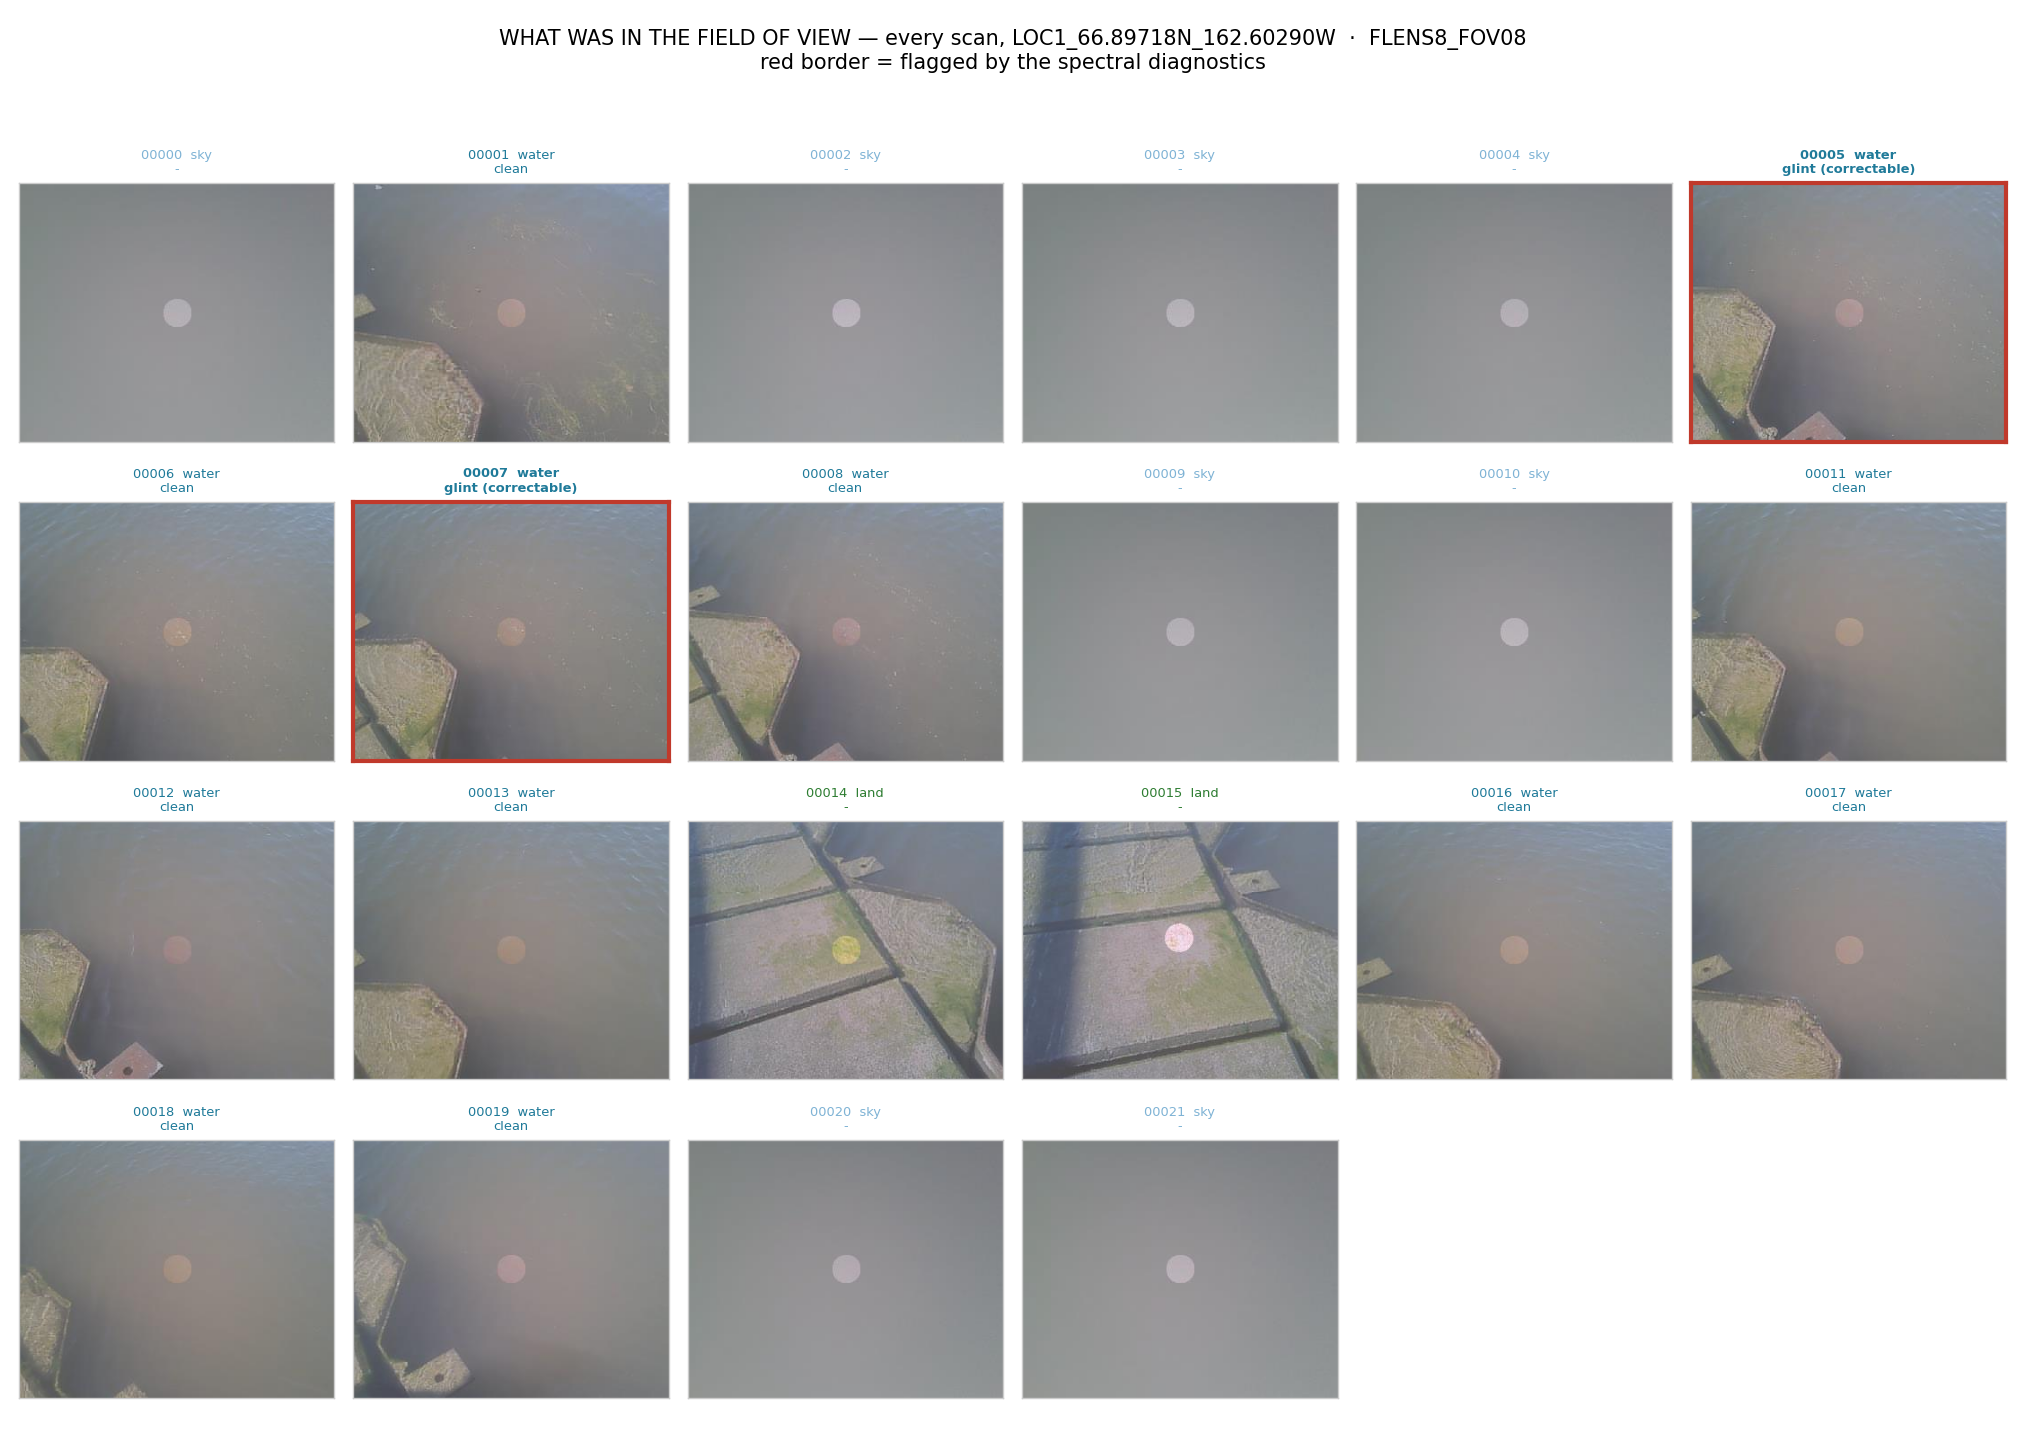
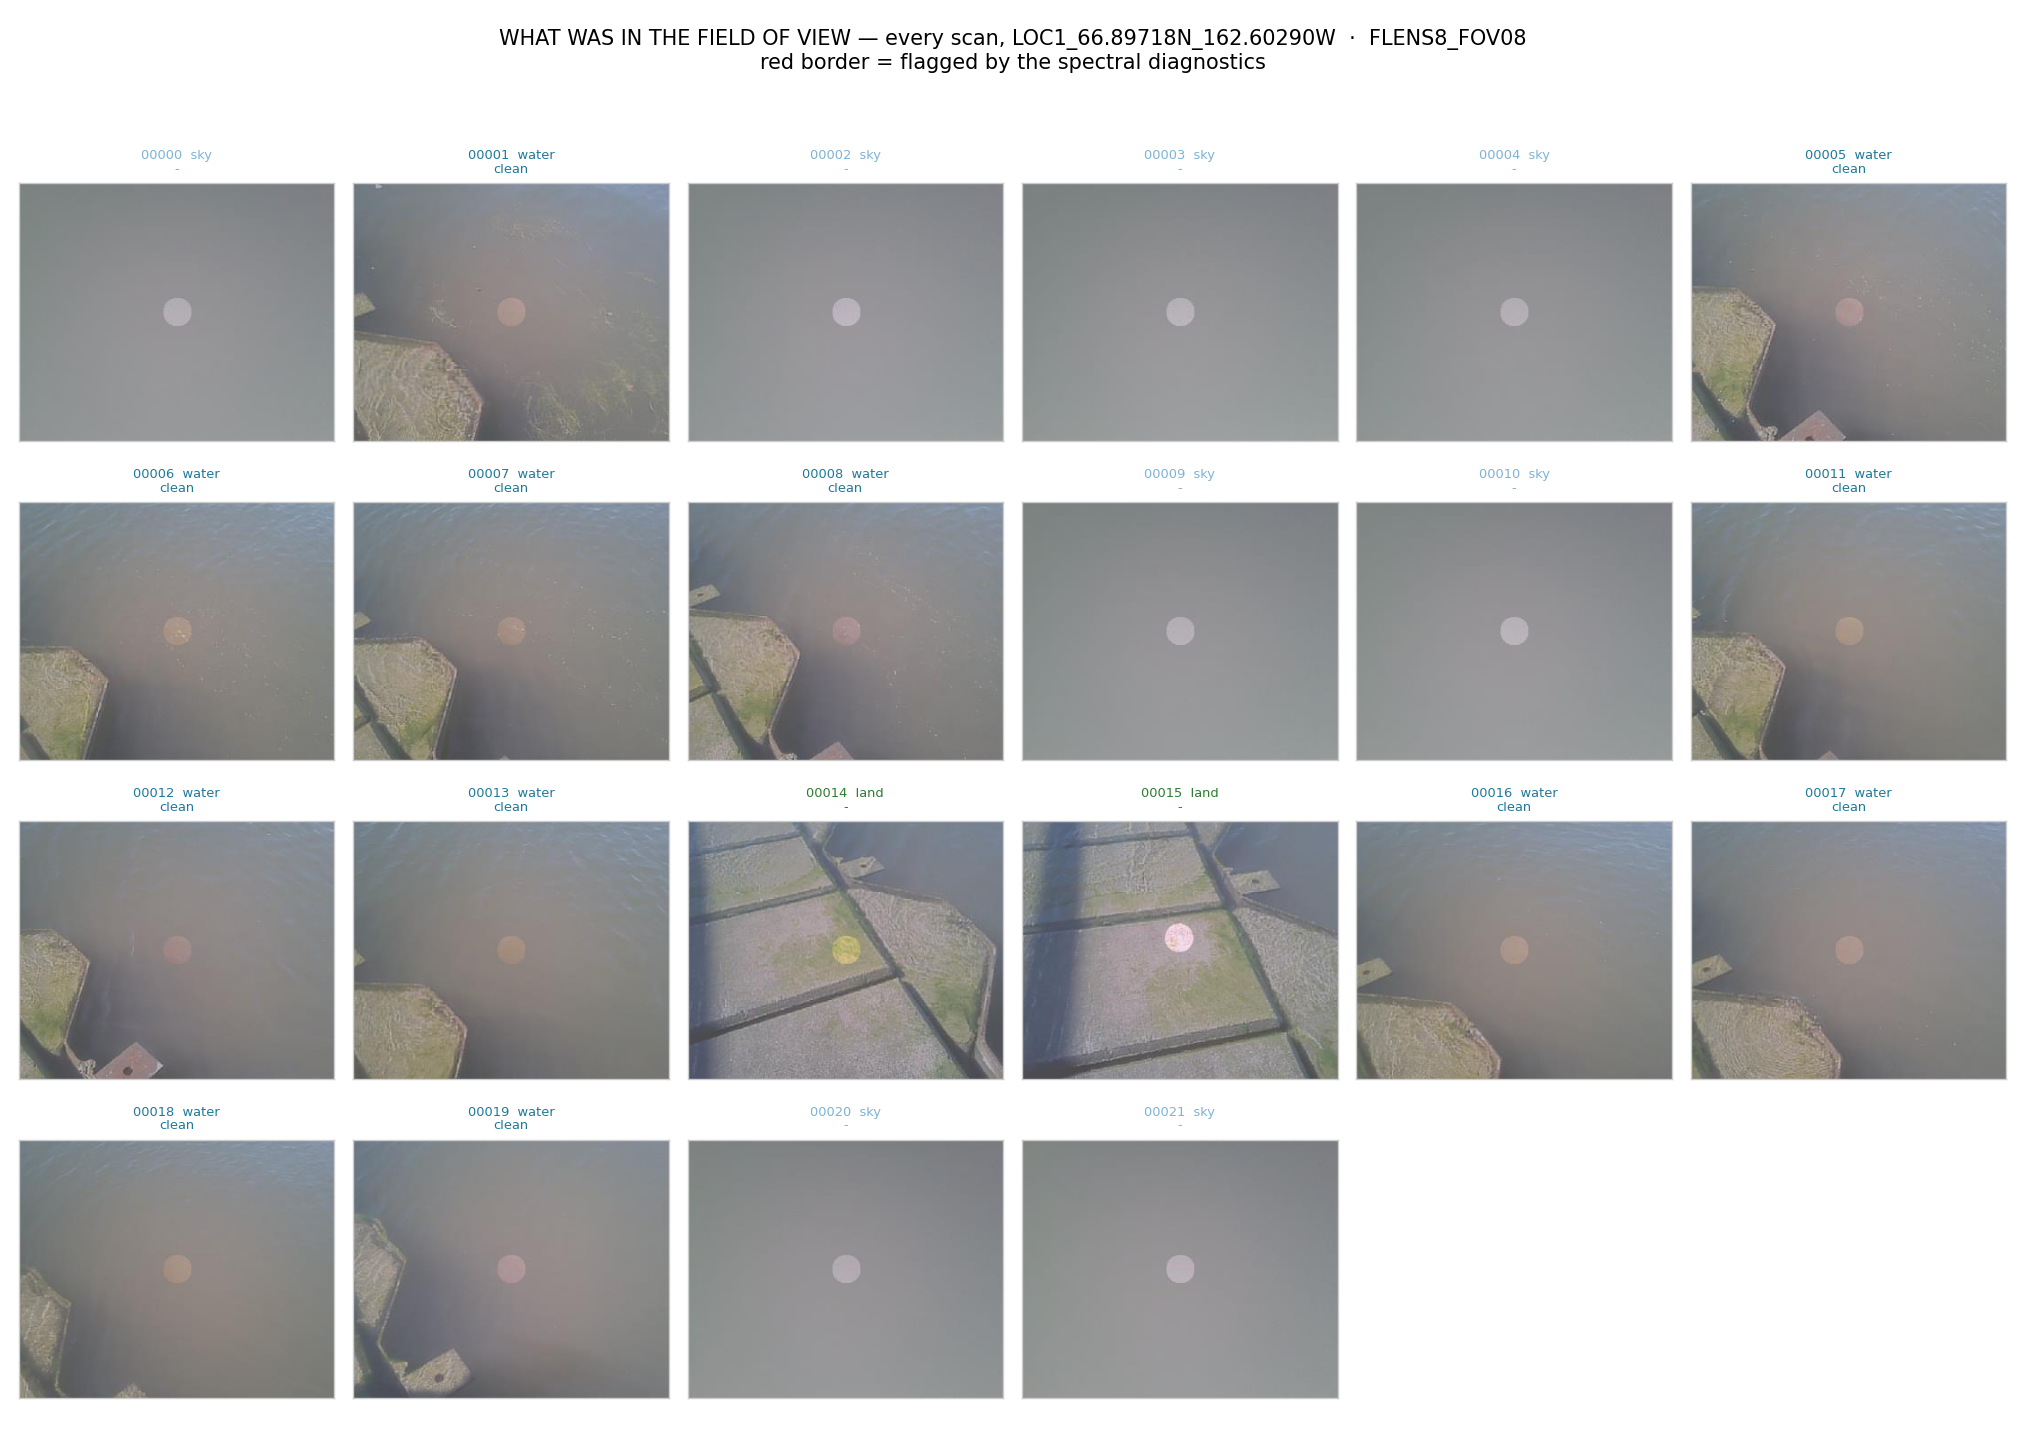
Step-5 water QC: pair sky within the panel block, as FINAL does
analyse_water_scans.build_rrs now uses match_by_angle(respect_blocks=True),
so the step-5 diagnostic table describes the same water/sky pairs as
FINAL_Rrs.csv. New test TestWaterScanQcUsesFinalSkyPairing (fails on the
old code at LOC1 00005: sky 00000 vs 00020).

Re-run on all 13 station folders: only 2026-08-16 LOC1 changed. 6 scans
move to sky 00020; 00005 and 00007 change from "glint (correctable)" to
"clean" (both marginal against the 3.15 deg cut). That reopens the
2026-08-18 nir_similarity decision for LOC1; FINAL is not changed here.
CORRECTIONS.md regenerated for all 11 R_rs stations (only LOC1 differs);
sky, R_rs555-before and verdict match water_scans/REPORT.txt for 70/70.
LOC2c (0 water) gets its SKIPPED report.

diff --git a/tests/test_field_day.py b/tests/test_field_day.py
@@ -281,6 +281,37 @@ class TestRetrievedRrs(unittest.TestCase):
                             % (st["ref"], 100 * spread))
 
 
+class TestWaterScanQcUsesFinalSkyPairing(unittest.TestCase):
+    """`analyse_water_scans.py` (step-5 QC) must pair each water scan with the SAME sky
+    scan as `analyse_location.py` (FINAL_Rrs.csv), which never crosses a panel-reference
+    block. LOC1 is the discriminating station: it has two panel blocks, and nearest-angle
+    matching across the whole location picks sky 00000/00002 (other block) for 6 of its
+    12 water scans where FINAL uses 00020, shifting R_rs(555) by up to ~1 %."""
+
+    LOC1 = REAL_BACKING_STORES[0]
+
+    def test_pairing_and_rrs_match_final(self):
+        import numpy as np
+        from analyse_location import match_by_angle
+        from analyse_water_scans import build_rrs
+        from fieldrrs.rrs import rho_at_angle, rrs_three_scan, view_zenith_from_tilt
+        from organize_by_location import survey
+        scans = survey(self.LOC1)
+        wl = np.array(scans[0]["spec"].wavelength)
+        sky = sorted([s for s in scans if s["role"] == "sky"], key=lambda s: s["n"])
+        water = sorted([s for s in scans if s["role"] == "water"], key=lambda s: s["n"])
+        self.assertEqual(len(water), 12)
+        qc = build_rrs(water, sky, wl, 0.99, "none")
+        for w, sk, _, note in match_by_angle(water, sky, respect_blocks=True):
+            self.assertEqual(note, "")
+            self.assertEqual(qc[w["n"]]["sky"], sk["n"], w["n"])
+            rho = rho_at_angle(view_zenith_from_tilt(w["spec"].tilt_y_deg))
+            ref = rrs_three_scan(wl, w["spec"].columns["rad_target"],
+                                 sk["spec"].columns["rad_target"],
+                                 w["spec"].columns["rad_ref"], 0.99, rho, "none").rrs
+            np.testing.assert_array_equal(qc[w["n"]]["rrs"], np.array(ref))
+
+
 DATA_0817 = os.path.join(ROOT, "Data_NatureSpec", "2026_Aug_17")
 
 

diff --git a/analyse_water_scans.py b/analyse_water_scans.py
@@ -55,6 +55,7 @@ import numpy as np
 
 from fieldrrs.rrs import (SIMILARITY_780_870, rho_at_angle, rrs_three_scan,
                           view_zenith_from_tilt)
+from analyse_location import match_by_angle
 from organize_by_location import survey
 
 LO, HI = 400.0, 900.0
@@ -68,12 +69,16 @@ def _ix(wl, x):
 
 
 def build_rrs(water, sky, wl, panel_r, method="none"):
-    """R_rs per water scan, each paired to the sky closest in view geometry."""
+    """R_rs per water scan, paired to its sky exactly as FINAL_Rrs.csv pairs it.
+
+    `match_by_angle(respect_blocks=True)`: nearest angle within the water scan's own
+    panel-reference block. Nearest angle across the whole location picked a different
+    sky for 6 of 12 scans at 2026-08-16 LOC1, so the QC table did not describe FINAL.
+    """
     out = {}
-    for w in water:
+    for w, sk, _, _ in match_by_angle(water, sky, respect_blocks=True):
         tv = view_zenith_from_tilt(w["spec"].tilt_y_deg)
         rho = rho_at_angle(tv)
-        sk = min(sky, key=lambda k: abs(view_zenith_from_tilt(k["spec"].tilt_y_deg) - tv))
         r = rrs_three_scan(wl, w["spec"].columns["rad_target"],
                            sk["spec"].columns["rad_target"],
                            w["spec"].columns["rad_ref"], panel_r, rho, method)
@@ -312,7 +317,7 @@ def main():
     os.makedirs(outdir, exist_ok=True)
 
     wl = np.array(scans[0]["spec"].wavelength)
-    sky = [x for x in scans if x["role"] == "sky"]
+    sky = sorted([x for x in scans if x["role"] == "sky"], key=lambda x: x["n"])
     water = sorted([x for x in scans if x["role"] == "water"], key=lambda x: x["n"])
     names = [w["n"] for w in water]
     if len(water) < 3 or not sky:

diff --git a/FIELD_DAY_WORKFLOW.md b/FIELD_DAY_WORKFLOW.md
@@ -327,10 +327,20 @@ record is `Data_NatureSpec/2026_Aug_17/PROCESSING_NOTES.md`; the reusable parts:
   R_rs before and after, the step-5 verdict and whether the scan is in FINAL. Every
   number is recomputed or parsed from the run; hand-written judgement goes in an optional
   `STATION_NOTES.md`, included verbatim. Regenerate after any re-run.
-- **Known inconsistency**: `analyse_water_scans.py` pairs each water scan with the
-  nearest-angle sky across ALL panel blocks, while `analyse_location.py` (FINAL) never
-  crosses a block. Its diagnostic table can therefore use a different sky (2026-08-16
-  LOC1: 6 of 12 scans, up to ~1 % at 555 nm; no verdict changed). Not fixed.
+- **Sky pairing in step 5 now matches FINAL (fixed 2026-10-02)**: `analyse_water_scans.py`
+  used to pair each water scan with the nearest-angle sky across ALL panel blocks, while
+  `analyse_location.py` never crosses a block. `build_rrs` now calls
+  `match_by_angle(respect_blocks=True)`, guarded by
+  `tests/test_field_day.py::TestWaterScanQcUsesFinalSkyPairing`. Re-run on all 13 station
+  folders: only 2026-08-16 LOC1 changed (00005/00008/00011/00012/00017/00019 now use sky
+  00020, R_rs(555) down 6-9e-5 sr⁻¹). **LOC1's verdicts DID change**, contrary to what this
+  bullet said before: 00005 and 00007 went from `glint (correctable)` to `clean`, leaving no
+  deviants. Both are marginal (median angle to seed 3.00° and 3.13° vs a 3.15° cut; before:
+  3.20° and 3.09° vs 3.02°). The 2026-08-18 decision to apply `--glint nir_similarity` at
+  LOC1 (`PAPER_READINESS.md` §2d0, the "LOC1's own two glint-affected scans" line in step 5
+  above) rested on that verdict and is open again; FINAL is unchanged. CORRECTIONS.md
+  regenerated for all 11 R_rs stations; its sky / R_rs555-before / verdict columns match
+  `water_scans/REPORT.txt` for all 70 scans.
 - **Step 9 is now per day**: `make_highlights.py` takes a `DAYS` entry and
   `make_slide_deck.py` a `build_<day>()` registered in `BUILDERS`. The 08-16 output is
   unchanged (slide text and image placement diffed identical).

diff --git a/Data_NatureSpec/2026_Aug_16/by_location/LOC1_66.89718N_162.60290W/FLENS8_FOV08/CORRECTIONS.md b/Data_NatureSpec/2026_Aug_16/by_location/LOC1_66.89718N_162.60290W/FLENS8_FOV08/CORRECTIONS.md
@@ -33,9 +33,9 @@ For each water scan, with its angle-matched sky scan and the panel reference sto
 | water | sky | tilt ° | Δθ ° | ρ | ρL_sky/L_t 443 | ε | R_rs555 before | R_rs555 after | R_rs865 after | step-5 verdict | in FINAL |
 |---|---|---|---|---|---|---|---|---|---|---|---|
 | 00001 | 00000 | 43.2 | 1.1 | 0.0302 | 44 % | +0.00010 | 0.00881 | 0.00870 | 0.00067 | clean | yes |
-| 00005 | 00020 | 41.6 | 4.0 | 0.0290 | 48 % | +0.00013 | 0.00706 | 0.00693 | 0.00058 | glint (correctable) | yes |
+| 00005 | 00020 | 41.6 | 4.0 | 0.0290 | 48 % | +0.00013 | 0.00706 | 0.00693 | 0.00058 | clean | yes |
 | 00006 | 00010 | 47.3 | 0.3 | 0.0344 | 49 % | +0.00024 | 0.00932 | 0.00908 | 0.00075 | clean | yes |
-| 00007 | 00009 | 46.1 | 0.4 | 0.0330 | 48 % | +0.00022 | 0.00879 | 0.00857 | 0.00075 | glint (correctable) | yes |
+| 00007 | 00009 | 46.1 | 0.4 | 0.0330 | 48 % | +0.00022 | 0.00879 | 0.00857 | 0.00075 | clean | yes |
 | 00008 | 00020 | 42.9 | 2.7 | 0.0300 | 51 % | +0.00008 | 0.00703 | 0.00695 | 0.00061 | clean | yes |
 | 00011 | 00020 | 44.9 | 0.7 | 0.0317 | 48 % | -0.00013 | 0.00858 | 0.00870 | 0.00074 | clean | yes |
 | 00012 | 00020 | 42.0 | 3.6 | 0.0293 | 46 % | -0.00007 | 0.00784 | 0.00790 | 0.00067 | clean | yes |
